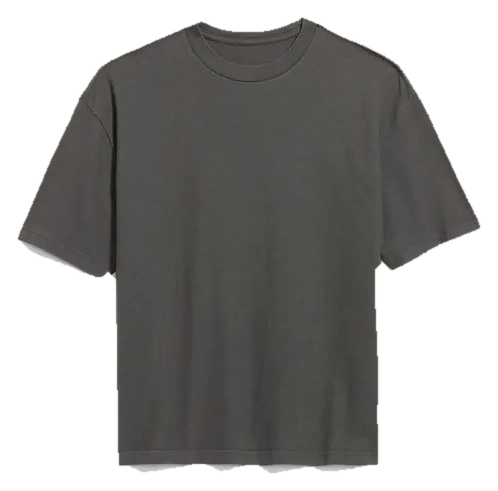
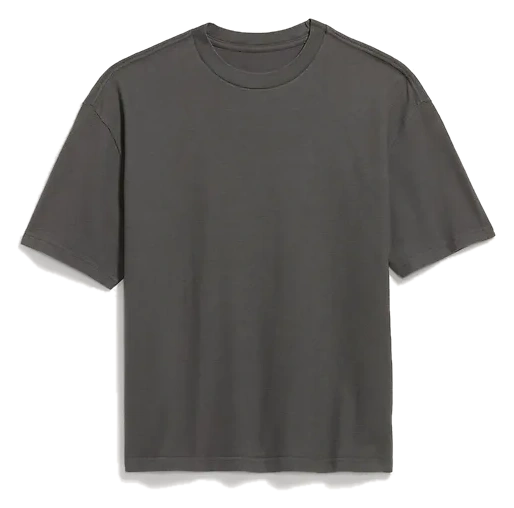
Preserve product photo versions

diff --git a/index.html b/index.html
@@ -27,7 +27,7 @@
 </main><footer class="footer"><span>Panoply · The Closet</span><span>Easy pieces, good fit, room to evolve.</span></footer>
 </div>
 <dialog id="detail"><button class="close" aria-label="Close">×</button><div class="modal-photo" id="modalPhoto"></div><div class="modal-info"><div class="card-kicker" id="modalCategory"></div><div class="card-brand" id="modalBrand"></div><h2 id="modalName"></h2><p id="modalColor"></p><p id="modalMeta" class="modal-meta"></p></div></dialog>
-<script id="wardrobe-data" type="application/json">{"styles":39,"pieces":46,"items":[{"brand":"Ralph Lauren","name":"Featherweight Mesh Shirt","color":"White","category":"Button-downs","group":"tops","quantity":2,"image":"assets/product-photos/ralph-lauren-featherweight-mesh-white.webp"},{"brand":"Ralph Lauren","name":"Featherweight Mesh Shirt","color":"Aviator Navy","category":"Button-downs","group":"tops","quantity":2,"image":"assets/product-photos/ralph-lauren-featherweight-mesh-aviator-navy.webp"},{"brand":"Ralph Lauren","name":"The Iconic Mesh Polo Shirt","color":"White","category":"Polos","group":"tops","quantity":1,"image":"assets/product-photos/ralph-lauren-iconic-mesh-polo-white.webp"},{"brand":"Ralph Lauren","name":"The Iconic Mesh Polo Shirt","color":"Light Navy","category":"Polos","group":"tops","quantity":1,"image":"assets/product-photos/ralph-lauren-iconic-mesh-polo-light-navy.webp"},{"brand":"L.L.Bean","name":"Carefree Unshrinkable T-Shirt Without Pocket, Short Sleeve","color":"Black","category":"Tees","group":"tops","quantity":2,"image":"assets/cutouts/llbean-carefree-tee-black.webp"},{"brand":"L.L.Bean","name":"Carefree Unshrinkable T-Shirt Without Pocket, Short Sleeve","color":"White","category":"Tees","group":"tops","quantity":2,"image":"assets/cutouts/llbean-carefree-tee-white.webp"},{"brand":"Old Navy","name":"Oversized Heavyweight Garment-Washed T-Shirt","color":"Panthers","category":"Tees","group":"tops","quantity":3,"image":"assets/cutouts/old-navy-panthers-tee.webp"},{"brand":"Old Navy","name":"Oversized Heavyweight Garment-Washed T-Shirt","color":"Sea Salt","category":"Tees","group":"tops","quantity":2,"image":"assets/cutouts/old-navy-sea-salt-tee.webp"},{"brand":"Gap","name":"GapFit Tech Fleece Hoodie","color":"Gray Heather","category":"Hoodies","group":"layers","quantity":1,"image":"assets/cutouts/gapfit-tech-fleece-gray-heather.webp"},{"brand":"Gap","name":"Vintage Soft Full-Zip Hoodie","color":"True Black","category":"Hoodies","group":"layers","quantity":1,"image":null},{"brand":"Gap","name":"Vintage Soft Hoodie","color":"True Black","category":"Hoodies","group":"layers","quantity":1,"image":"assets/cutouts/gap-vintage-soft-hoodie-true-black.webp"},{"brand":"Gap","name":"Vintage Soft Hoodie","color":"Light Heather Grey","category":"Hoodies","group":"layers","quantity":1,"image":"assets/cutouts/gap-vintage-soft-hoodie-light-heather-grey.webp"},{"brand":"Gap","name":"Vintage Soft Hoodie","color":"Blue","category":"Hoodies","group":"layers","quantity":1,"image":"assets/cutouts/gap-vintage-soft-hoodie-blue.webp"},{"brand":"Old Navy","name":"Oversized Rotation Hoodie","color":"Washed Olive","category":"Hoodies","group":"layers","quantity":1,"image":"assets/cutouts/old-navy-rotation-hoodie-washed-olive.webp"},{"brand":"Old Navy","name":"Rotation Pullover Hoodie","color":"A Stone's Throw","category":"Hoodies","group":"layers","quantity":1,"image":"assets/cutouts/old-navy-stones-throw-hoodie.webp"},{"brand":"Old Navy","name":"Rotation Pullover Hoodie","color":"Off White","category":"Hoodies","group":"layers","quantity":1,"image":"assets/cutouts/old-navy-rotation-pullover-hoodie-off-white.webp","note":"Photo is a stand-in for now."},{"brand":"L.L.Bean","name":"Fleece-Lined Flannel Hooded Snap-Front Shirt","color":"Black Watch","category":"Shirt jackets","group":"layers","quantity":1,"image":"assets/cutouts/llbean-fleece-lined-flannel-black-watch.webp"},{"brand":"L.L.Bean","name":"Hooded PrimaLoft-Lined Shirt Jac Slightly Fitted Plaid","color":"Marine Blue","category":"Shirt jackets","group":"layers","quantity":1,"image":"assets/cutouts/llbean-hooded-primaloft-marine-blue.webp"},{"brand":"L.L.Bean","name":"Quilted Flannel Shirt Jacket","color":"Orange/cream plaid; olive quilted lining (observed)","category":"Shirt jackets","group":"layers","quantity":1,"image":null},{"brand":"L.L.Bean","name":"Quilted Flannel Shirt Jacket","color":"Dark green/navy plaid; red quilted lining (observed)","category":"Shirt jackets","group":"layers","quantity":1,"image":null},{"brand":"L.L.Bean","name":"Scotch Plaid Hooded Shirt","color":"Blue/cream windowpane plaid (observed; official color unverified)","category":"Shirt jackets","group":"layers","quantity":1,"image":null},{"brand":"Polo Ralph Lauren","name":"Polo Prepster Linen Short","color":"Heritage Royal","category":"Shorts","group":"bottoms","quantity":1,"image":"assets/product-photos/polo-prepster-heritage-royal-shorts.webp"},{"brand":"Polo Ralph Lauren","name":"Polo Prepster Stretch Chino Short","color":"White","category":"Shorts","group":"bottoms","quantity":1,"image":"assets/product-photos/polo-prepster-white-shorts.webp"},{"brand":"Hollister","name":"Feel Good Bootcut Sweatpants","color":"Black","category":"Sweatpants","group":"bottoms","quantity":1,"image":"assets/cutouts/hollister-feel-good-bootcut-black.webp"},{"brand":"Hollister","name":"Feel Good Bootcut Sweatpants","color":"Dark Gray","category":"Sweatpants","group":"bottoms","quantity":1,"image":"assets/cutouts/hollister-feel-good-bootcut-dark-gray.webp"},{"brand":"Hollister","name":"Feel Good Bootcut Sweatpants","color":"Light Heather Gray","category":"Sweatpants","group":"bottoms","quantity":1,"image":"assets/cutouts/hollister-feel-good-bootcut-light-heather-gray.webp"},{"brand":"Old Navy","name":"Baggy Rotation Sweatpants","color":"Black Jack","category":"Sweatpants","group":"bottoms","quantity":1,"image":"assets/cutouts/old-navy-baggy-rotation-black-jack.webp"},{"brand":"Old Navy","name":"Baggy Rotation Sweatpants","color":"Medium Gray","category":"Sweatpants","group":"bottoms","quantity":1,"image":"assets/cutouts/old-navy-baggy-rotation-medium-gray.webp"},{"brand":"Old Navy","name":"Heavyweight Baggy Sweatpants","color":"Black Jack","category":"Sweatpants","group":"bottoms","quantity":1,"image":"assets/cutouts/old-navy-heavyweight-black-jack.webp"},{"brand":"Old Navy","name":"Heavyweight Baggy Sweatpants","color":"Stainless Steel","category":"Sweatpants","group":"bottoms","quantity":1,"image":"assets/cutouts/old-navy-heavyweight-stainless-steel.webp"},{"brand":"Fjällräven","name":"Barents Pro Pants","color":"Color not listed","category":"Trousers","group":"bottoms","quantity":1,"image":null},{"brand":"Fjällräven","name":"Vidda Pro Ventilated Trousers","color":"Dark Grey/Black","category":"Trousers","group":"bottoms","quantity":1,"image":"assets/product-photos/fjallraven-vidda-pro-dark-grey-black.webp"},{"brand":"Fjällräven","name":"Vidda Pro Ventilated Trousers","color":"Dark Olive","category":"Trousers","group":"bottoms","quantity":1,"image":"assets/product-photos/fjallraven-vidda-pro-dark-olive.webp"},{"brand":"New Balance","name":"Fresh Foam X Hierro v8","color":"Shadow Grey / Quarry Blue / Black","category":"Shoes","group":"shoes","quantity":1,"image":"assets/cutouts/new-balance-hierro-shadow-grey.webp"},{"brand":"New Balance","name":"Fresh Foam X Hierro v8 GORE-TEX","color":"Black / Phantom / Magnet","category":"Shoes","group":"shoes","quantity":1,"image":"assets/cutouts/new-balance-hierro-gtx-black-phantom-magnet.webp"},{"brand":"New Balance","name":"Fresh Foam X More V5 Running Shoe","color":"Black / Linen / Silver Metallic","category":"Shoes","group":"shoes","quantity":1,"image":"assets/cutouts/new-balance-fresh-foam-more-v5-black.webp"},{"brand":"UGG","name":"Ascot Suede Slipper","color":"Chestnut","category":"Shoes","group":"shoes","quantity":1,"image":"assets/cutouts/ugg-ascot-chestnut.webp"},{"brand":"UGG","name":"Ascot Suede Slipper","color":"Caribou","category":"Shoes","group":"shoes","quantity":1,"image":"assets/cutouts/ugg-ascot-caribou.webp"},{"brand":"Nike","name":"Air Force 1 '07","color":"White/White","category":"Shoes","group":"shoes","quantity":1,"pending":true,"image":"assets/cutouts/nike-af1-white-white.webp"}]}</script>
+<script id="wardrobe-data" type="application/json">{"styles":39,"pieces":46,"items":[{"brand":"Ralph Lauren","name":"Featherweight Mesh Shirt","color":"White","category":"Button-downs","group":"tops","quantity":2,"image":"assets/product-photos/ralph-lauren-featherweight-mesh-white.webp"},{"brand":"Ralph Lauren","name":"Featherweight Mesh Shirt","color":"Aviator Navy","category":"Button-downs","group":"tops","quantity":2,"image":"assets/product-photos/ralph-lauren-featherweight-mesh-aviator-navy.webp"},{"brand":"Ralph Lauren","name":"The Iconic Mesh Polo Shirt","color":"White","category":"Polos","group":"tops","quantity":1,"image":"assets/product-photos/ralph-lauren-iconic-mesh-polo-white.webp"},{"brand":"Ralph Lauren","name":"The Iconic Mesh Polo Shirt","color":"Light Navy","category":"Polos","group":"tops","quantity":1,"image":"assets/product-photos/ralph-lauren-iconic-mesh-polo-light-navy.webp"},{"brand":"L.L.Bean","name":"Carefree Unshrinkable T-Shirt Without Pocket, Short Sleeve","color":"Black","category":"Tees","group":"tops","quantity":2,"image":"assets/cutouts/llbean-carefree-tee-black.webp"},{"brand":"L.L.Bean","name":"Carefree Unshrinkable T-Shirt Without Pocket, Short Sleeve","color":"White","category":"Tees","group":"tops","quantity":2,"image":"assets/cutouts/llbean-carefree-tee-white.webp"},{"brand":"Old Navy","name":"Oversized Heavyweight Garment-Washed T-Shirt","color":"Panthers","category":"Tees","group":"tops","quantity":3,"image":"assets/cutouts/old-navy-panthers-tee-v2.webp"},{"brand":"Old Navy","name":"Oversized Heavyweight Garment-Washed T-Shirt","color":"Sea Salt","category":"Tees","group":"tops","quantity":2,"image":"assets/cutouts/old-navy-sea-salt-tee.webp"},{"brand":"Gap","name":"GapFit Tech Fleece Hoodie","color":"Gray Heather","category":"Hoodies","group":"layers","quantity":1,"image":"assets/cutouts/gapfit-tech-fleece-gray-heather.webp"},{"brand":"Gap","name":"Vintage Soft Full-Zip Hoodie","color":"True Black","category":"Hoodies","group":"layers","quantity":1,"image":null},{"brand":"Gap","name":"Vintage Soft Hoodie","color":"True Black","category":"Hoodies","group":"layers","quantity":1,"image":"assets/cutouts/gap-vintage-soft-hoodie-true-black.webp"},{"brand":"Gap","name":"Vintage Soft Hoodie","color":"Light Heather Grey","category":"Hoodies","group":"layers","quantity":1,"image":"assets/cutouts/gap-vintage-soft-hoodie-light-heather-grey.webp"},{"brand":"Gap","name":"Vintage Soft Hoodie","color":"Blue","category":"Hoodies","group":"layers","quantity":1,"image":"assets/cutouts/gap-vintage-soft-hoodie-blue.webp"},{"brand":"Old Navy","name":"Oversized Rotation Hoodie","color":"Washed Olive","category":"Hoodies","group":"layers","quantity":1,"image":"assets/cutouts/old-navy-rotation-hoodie-washed-olive.webp"},{"brand":"Old Navy","name":"Rotation Pullover Hoodie","color":"A Stone's Throw","category":"Hoodies","group":"layers","quantity":1,"image":"assets/cutouts/old-navy-stones-throw-hoodie-v2.webp"},{"brand":"Old Navy","name":"Rotation Pullover Hoodie","color":"Off White","category":"Hoodies","group":"layers","quantity":1,"image":"assets/cutouts/old-navy-rotation-pullover-hoodie-off-white.webp","note":"Photo is a stand-in for now."},{"brand":"L.L.Bean","name":"Fleece-Lined Flannel Hooded Snap-Front Shirt","color":"Black Watch","category":"Shirt jackets","group":"layers","quantity":1,"image":"assets/cutouts/llbean-fleece-lined-flannel-black-watch.webp"},{"brand":"L.L.Bean","name":"Hooded PrimaLoft-Lined Shirt Jac Slightly Fitted Plaid","color":"Marine Blue","category":"Shirt jackets","group":"layers","quantity":1,"image":"assets/cutouts/llbean-hooded-primaloft-marine-blue.webp"},{"brand":"L.L.Bean","name":"Quilted Flannel Shirt Jacket","color":"Orange/cream plaid; olive quilted lining (observed)","category":"Shirt jackets","group":"layers","quantity":1,"image":null},{"brand":"L.L.Bean","name":"Quilted Flannel Shirt Jacket","color":"Dark green/navy plaid; red quilted lining (observed)","category":"Shirt jackets","group":"layers","quantity":1,"image":null},{"brand":"L.L.Bean","name":"Scotch Plaid Hooded Shirt","color":"Blue/cream windowpane plaid (observed; official color unverified)","category":"Shirt jackets","group":"layers","quantity":1,"image":null},{"brand":"Polo Ralph Lauren","name":"Polo Prepster Linen Short","color":"Heritage Royal","category":"Shorts","group":"bottoms","quantity":1,"image":"assets/product-photos/polo-prepster-heritage-royal-shorts.webp"},{"brand":"Polo Ralph Lauren","name":"Polo Prepster Stretch Chino Short","color":"White","category":"Shorts","group":"bottoms","quantity":1,"image":"assets/product-photos/polo-prepster-white-shorts.webp"},{"brand":"Hollister","name":"Feel Good Bootcut Sweatpants","color":"Black","category":"Sweatpants","group":"bottoms","quantity":1,"image":"assets/cutouts/hollister-feel-good-bootcut-black.webp"},{"brand":"Hollister","name":"Feel Good Bootcut Sweatpants","color":"Dark Gray","category":"Sweatpants","group":"bottoms","quantity":1,"image":"assets/cutouts/hollister-feel-good-bootcut-dark-gray.webp"},{"brand":"Hollister","name":"Feel Good Bootcut Sweatpants","color":"Light Heather Gray","category":"Sweatpants","group":"bottoms","quantity":1,"image":"assets/cutouts/hollister-feel-good-bootcut-light-heather-gray.webp"},{"brand":"Old Navy","name":"Baggy Rotation Sweatpants","color":"Black Jack","category":"Sweatpants","group":"bottoms","quantity":1,"image":"assets/cutouts/old-navy-baggy-rotation-black-jack-v2.webp"},{"brand":"Old Navy","name":"Baggy Rotation Sweatpants","color":"Medium Gray","category":"Sweatpants","group":"bottoms","quantity":1,"image":"assets/cutouts/old-navy-baggy-rotation-medium-gray-v2.webp"},{"brand":"Old Navy","name":"Heavyweight Baggy Sweatpants","color":"Black Jack","category":"Sweatpants","group":"bottoms","quantity":1,"image":"assets/cutouts/old-navy-heavyweight-black-jack-v2.webp"},{"brand":"Old Navy","name":"Heavyweight Baggy Sweatpants","color":"Stainless Steel","category":"Sweatpants","group":"bottoms","quantity":1,"image":"assets/cutouts/old-navy-heavyweight-stainless-steel-v2.webp"},{"brand":"Fjällräven","name":"Barents Pro Pants","color":"Color not listed","category":"Trousers","group":"bottoms","quantity":1,"image":null},{"brand":"Fjällräven","name":"Vidda Pro Ventilated Trousers","color":"Dark Grey/Black","category":"Trousers","group":"bottoms","quantity":1,"image":"assets/product-photos/fjallraven-vidda-pro-dark-grey-black.webp"},{"brand":"Fjällräven","name":"Vidda Pro Ventilated Trousers","color":"Dark Olive","category":"Trousers","group":"bottoms","quantity":1,"image":"assets/product-photos/fjallraven-vidda-pro-dark-olive.webp"},{"brand":"New Balance","name":"Fresh Foam X Hierro v8","color":"Shadow Grey / Quarry Blue / Black","category":"Shoes","group":"shoes","quantity":1,"image":"assets/cutouts/new-balance-hierro-shadow-grey.webp"},{"brand":"New Balance","name":"Fresh Foam X Hierro v8 GORE-TEX","color":"Black / Phantom / Magnet","category":"Shoes","group":"shoes","quantity":1,"image":"assets/cutouts/new-balance-hierro-gtx-black-phantom-magnet.webp"},{"brand":"New Balance","name":"Fresh Foam X More V5 Running Shoe","color":"Black / Linen / Silver Metallic","category":"Shoes","group":"shoes","quantity":1,"image":"assets/cutouts/new-balance-fresh-foam-more-v5-black.webp"},{"brand":"UGG","name":"Ascot Suede Slipper","color":"Chestnut","category":"Shoes","group":"shoes","quantity":1,"image":"assets/cutouts/ugg-ascot-chestnut.webp"},{"brand":"UGG","name":"Ascot Suede Slipper","color":"Caribou","category":"Shoes","group":"shoes","quantity":1,"image":"assets/cutouts/ugg-ascot-caribou.webp"},{"brand":"Nike","name":"Air Force 1 '07","color":"White/White","category":"Shoes","group":"shoes","quantity":1,"pending":true,"image":"assets/cutouts/nike-af1-white-white.webp"}]}</script>
 <script>
 const data=JSON.parse(document.getElementById("wardrobe-data").textContent),items=data.items||[];let active="all",query="";const grid=document.getElementById("grid"),result=document.getElementById("results");
 function esc(s){return String(s||"").replace(/[&<>"']/g,c=>({"&":"&amp;","<":"&lt;",">":"&gt;",'"':"&quot;","'":"&#39;"}[c]))}

diff --git a/assets/photo-versions.md b/assets/photo-versions.md
@@ -1,0 +1,29 @@
+# Product photo versions
+
+Keep prior photo versions in the repository when refining product images. Add a new filename and update the wardrobe data to point at it; do not overwrite an earlier version.
+
+## Photos restored to their original framing
+
+| Item | Previous cutout | Current original photo |
+|---|---|---|
+| Ralph Lauren Featherweight Mesh Shirt, White | `assets/cutouts/ralph-lauren-featherweight-mesh-white.webp` | `assets/product-photos/ralph-lauren-featherweight-mesh-white.webp` |
+| Ralph Lauren Featherweight Mesh Shirt, Aviator Navy | `assets/cutouts/ralph-lauren-featherweight-mesh-aviator-navy.webp` | `assets/product-photos/ralph-lauren-featherweight-mesh-aviator-navy.webp` |
+| Ralph Lauren Iconic Mesh Polo, White | `assets/cutouts/ralph-lauren-iconic-mesh-polo-white.webp` | `assets/product-photos/ralph-lauren-iconic-mesh-polo-white.webp` |
+| Ralph Lauren Iconic Mesh Polo, Light Navy | `assets/cutouts/ralph-lauren-iconic-mesh-polo-light-navy.webp` | `assets/product-photos/ralph-lauren-iconic-mesh-polo-light-navy.webp` |
+| Polo Prepster Shorts, Heritage Royal | `assets/cutouts/polo-prepster-heritage-royal-shorts.webp` | `assets/product-photos/polo-prepster-heritage-royal-shorts.webp` |
+| Polo Prepster Shorts, White | `assets/cutouts/polo-prepster-white-shorts.webp` | `assets/product-photos/polo-prepster-white-shorts.webp` |
+| Fjällräven Vidda Pro, Dark Grey/Black | `assets/cutouts/fjallraven-vidda-pro-dark-grey-black.webp` | `assets/product-photos/fjallraven-vidda-pro-dark-grey-black.webp` |
+| Fjällräven Vidda Pro, Dark Olive | `assets/cutouts/fjallraven-vidda-pro-dark-olive.webp` | `assets/product-photos/fjallraven-vidda-pro-dark-olive.webp` |
+
+## Refined cutout versions
+
+For each item below, the original isolated image is kept as v1, the source photo is kept separately, and the refined matte is v2.
+
+| Item | Source photo | Version 1 | Current version 2 |
+|---|---|---|---|
+| old navy panthers tee | `assets/product-photos/old-navy-panthers-tee-source.webp` | `assets/cutouts/old-navy-panthers-tee.webp` | `assets/cutouts/old-navy-panthers-tee-v2.webp` |
+| old navy stones throw hoodie | `assets/product-photos/old-navy-stones-throw-hoodie-source.webp` | `assets/cutouts/old-navy-stones-throw-hoodie.webp` | `assets/cutouts/old-navy-stones-throw-hoodie-v2.webp` |
+| old navy baggy rotation black jack | `assets/product-photos/old-navy-baggy-rotation-black-jack-source.webp` | `assets/cutouts/old-navy-baggy-rotation-black-jack.webp` | `assets/cutouts/old-navy-baggy-rotation-black-jack-v2.webp` |
+| old navy baggy rotation medium gray | `assets/product-photos/old-navy-baggy-rotation-medium-gray-source.webp` | `assets/cutouts/old-navy-baggy-rotation-medium-gray.webp` | `assets/cutouts/old-navy-baggy-rotation-medium-gray-v2.webp` |
+| old navy heavyweight black jack | `assets/product-photos/old-navy-heavyweight-black-jack-source.webp` | `assets/cutouts/old-navy-heavyweight-black-jack.webp` | `assets/cutouts/old-navy-heavyweight-black-jack-v2.webp` |
+| old navy heavyweight stainless steel | `assets/product-photos/old-navy-heavyweight-stainless-steel-source.webp` | `assets/cutouts/old-navy-heavyweight-stainless-steel.webp` | `assets/cutouts/old-navy-heavyweight-stainless-steel-v2.webp` |
